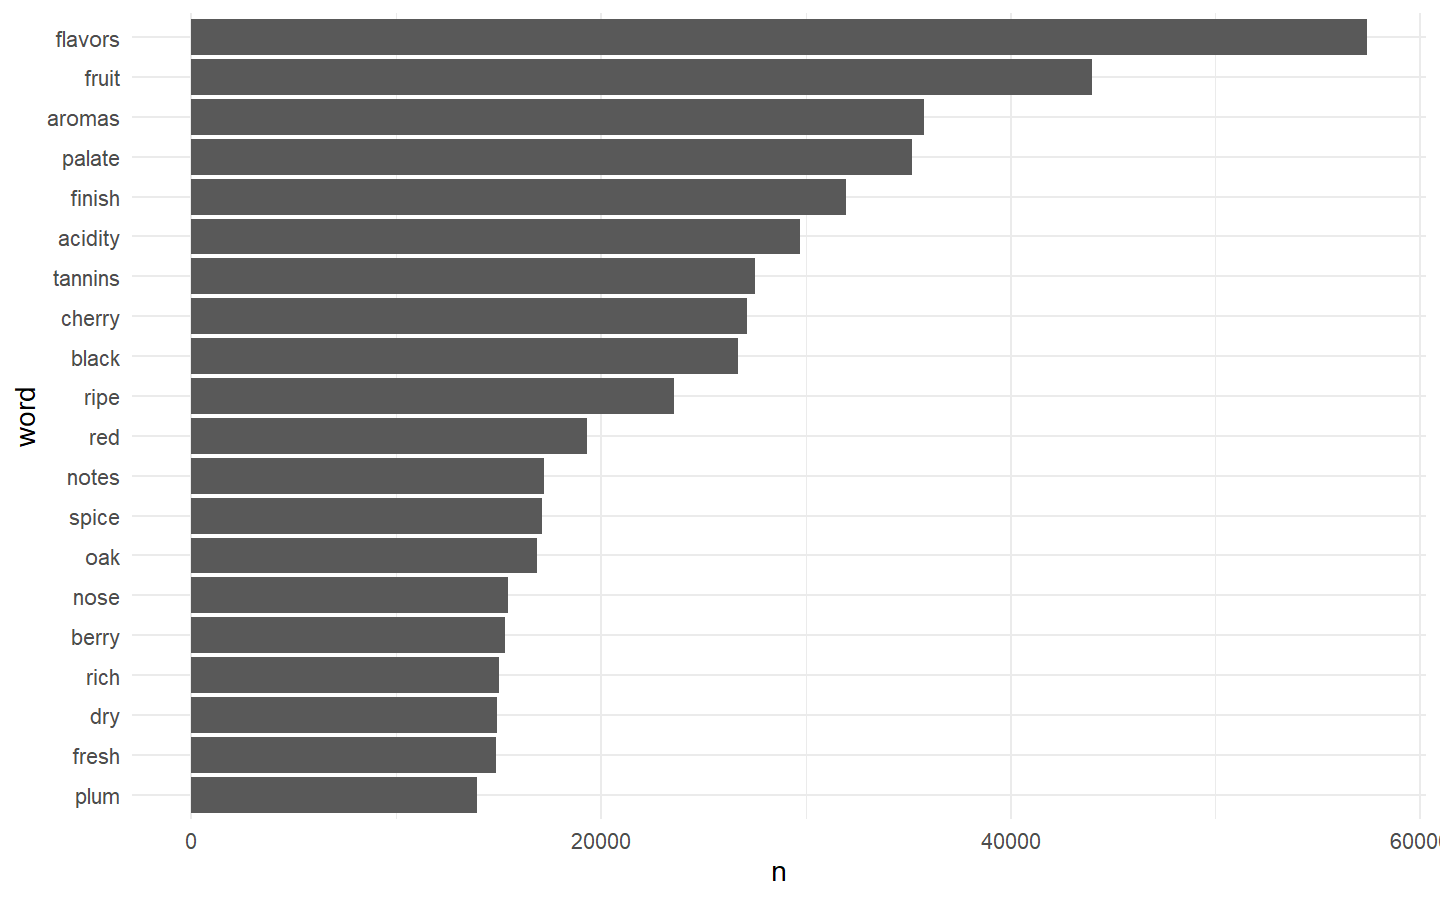
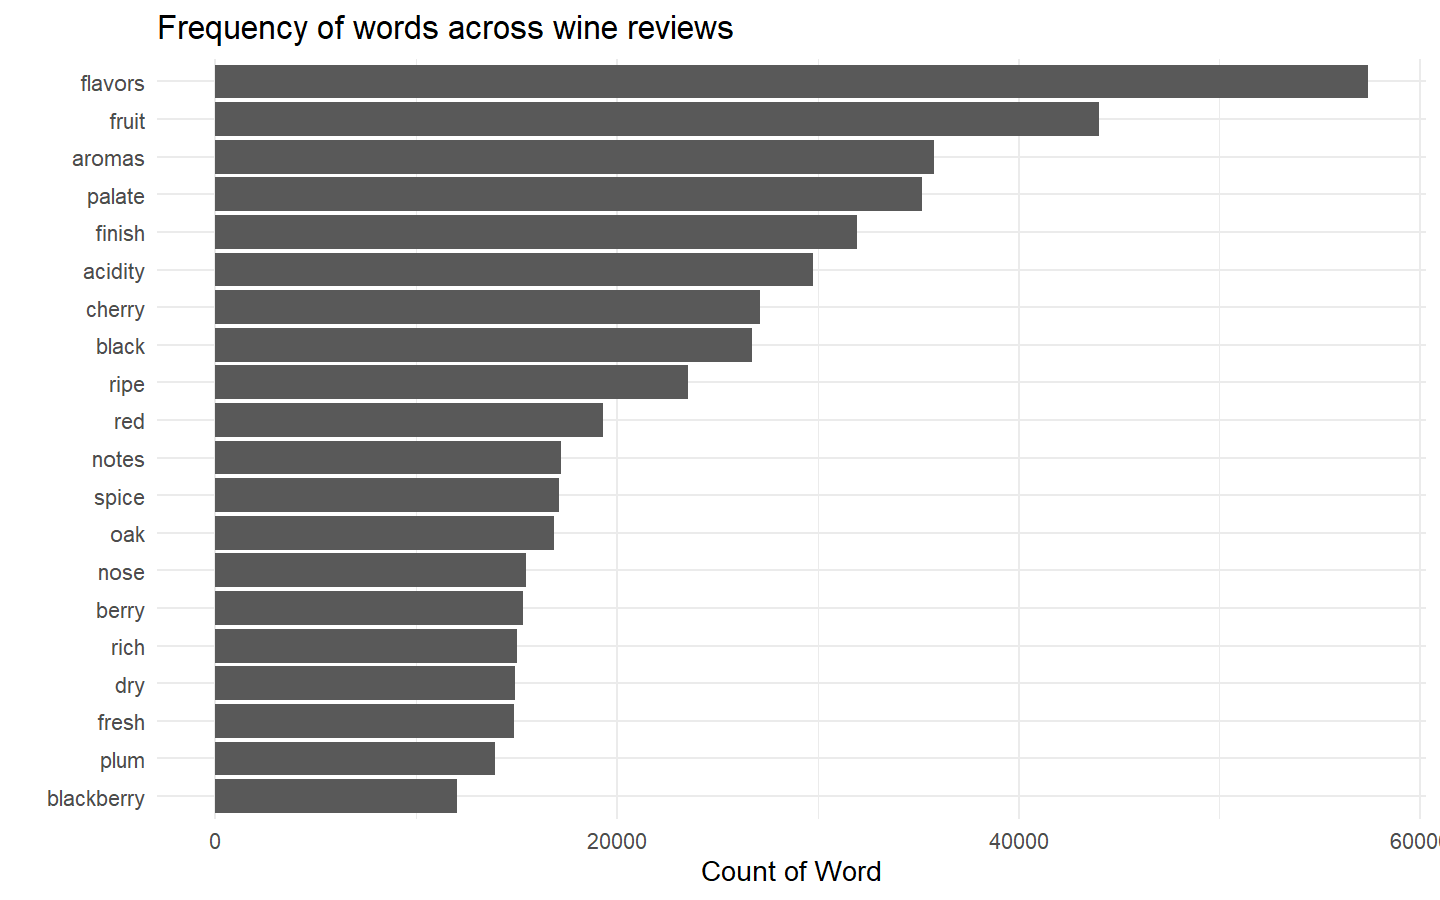
added table of contents & thoughts

diff --git a/markdown/20190528_wine_ratings/README.md b/markdown/20190528_wine_ratings/README.md
@@ -6,6 +6,13 @@ to understand it. All of the code & data is open source, but I hope you
 can take the themes or examples out of this and use it within the
 business.
 
+## Table of Contents
+
+  - [Set Up](#set-up)
+      - [Packages for Part One](#packages-for-part-one)
+      - [Packages for Part Two](#packages-for-part-two)
+  - [Engagements VOC](#engagements-voc)
+
 ![](./imgs/sponge-bob.jpg)
 
 # Set Up
@@ -43,7 +50,7 @@ library(doParallel)# parallel processing
 ## Data Pull
 
 We are going to pull in a data set from a repository on `Github` using
-`readr`’s function `read_csv`.
+`readr`’s function `read_csv()`.
 
 ``` r
 wine_ratings <- read_csv(
@@ -71,6 +78,10 @@ wine_ratings <- read_csv(
     ##   winery = col_character()
     ## )
 
+**Note**: Importing with `read_csv()` comes with a message(you’ll see
+this alot) and it basically is telling us that it pulled in our data set
+and what our function interpreted the data types as.
+
 ## Data Cleaning
 
   - See in the data imported correctly and/or see some of the top rows
@@ -78,7 +89,7 @@ wine_ratings <- read_csv(
 <!-- end list -->
 
 ``` r
-head(wine_ratings) # check top 5 observations
+head(wine_ratings) # check top 6 observations
 ```
 
     ## # A tibble: 6 x 14
@@ -94,7 +105,7 @@ head(wine_ratings) # check top 5 observations
     ## #   taster_twitter_handle <chr>, title <chr>, variety <chr>, winery <chr>
 
 ``` r
-tail(wine_ratings) # check bottom 5 observations
+tail(wine_ratings) # check bottom 6 observations
 ```
 
     ## # A tibble: 6 x 14
@@ -1321,6 +1332,12 @@ year
 
 </table>
 
+  - One of my favorite plots is the coefficient plot, it is a nice way
+    to see the influence of each one of our model’s inputs on the
+    prediction(wine-rating).
+
+<!-- end list -->
+
 ``` r
 # check coeff
 lm_mod %>% 
@@ -1369,11 +1386,35 @@ lm_mod %>%
 
 # Text mining
 
+One column that we haven’t really interacted with is the `description`
+column. It is a free text column that describes the wine from the wine
+reviewer’s perspective. How can we use the words within that description
+to help our prediction?
+
+**Goal**: Use the description column as an input for our model. We are
+going to be using a few different packages to accomplish our above
+goal(`tidytext` for breaking down our description column, `glmnet` for
+penalized regression,`Matrix` because `glmnet` requires a sparse matrix
+as an input & `doparallel` for parallel processing).
+
   - tidy text data
   - most used words
   - which words are good
   - put into matrix form for modeling with glmnet
   - …
+
+**Tidy Text a code break-down**: The tidytext package is amazing if you
+are going to be doing anything from text mining & sentiment scoring to
+topic modeling.
+
+  - tidy text data
+      - we are going to create and object `wine_words_df` and assign
+        `<-` our dataframe `wine_df` and **then** `%>%`
+      - unnest our description column(1-row per word) `unnest_tokens()`
+        and **then** `%>%`
+      - we want to remove all stop words(is, the, a…) with `anti_join()`
+        and **then** `%>%`
+      - remove some additional words with `filter()`
 
 <!-- end list -->
 
@@ -1382,14 +1423,14 @@ lm_mod %>%
 wine_words_df <- wine_df %>%
   unnest_tokens(word, description) %>%
   anti_join(stop_words, by = "word") %>%
-  filter(!word %in% c("wine", "drink"),
+  filter(!word %in% c("wine", "drink", "tannins"),
          str_detect(word, "[a-z]"))
 
 # check df 
 wine_words_df
 ```
 
-    ## # A tibble: 2,506,319 x 15
+    ## # A tibble: 2,478,789 x 15
     ##    country designation points price province region_1 region_2 taster_name
     ##    <chr>   <chr>        <dbl> <dbl> <chr>    <chr>    <chr>    <chr>      
     ##  1 Portug~ Avidagos        87    15 Douro    <NA>     <NA>     Roger Voss 
@@ -1402,11 +1443,16 @@ wine_words_df
     ##  8 Portug~ Avidagos        87    15 Douro    <NA>     <NA>     Roger Voss 
     ##  9 Portug~ Avidagos        87    15 Douro    <NA>     <NA>     Roger Voss 
     ## 10 Portug~ Avidagos        87    15 Douro    <NA>     <NA>     Roger Voss 
-    ## # ... with 2,506,309 more rows, and 7 more variables:
+    ## # ... with 2,478,779 more rows, and 7 more variables:
     ## #   taster_twitter_handle <chr>, title <chr>, year <int>, variety <chr>,
     ## #   winery <chr>, wine_id <int>, word <chr>
 
-check top words
+  - most used words
+      - We are going to check the most frequent words. The cool thing to
+        look at from the plot is the number of descriptors for tast
+        being used.
+
+<!-- end list -->
 
 ``` r
 wine_words_df %>%
@@ -1416,7 +1462,12 @@ wine_words_df %>%
   ggplot(aes(word, n)) +
   geom_col() +
   theme_minimal() + 
-  coord_flip()
+  coord_flip() + 
+  labs(
+    title = "Frequency of words across wine reviews",
+    x =  "",
+    y = "Count of Word"
+  )
 ```
 
 <img src="README_files/figure-gfm/unnamed-chunk-10-1.png" style="display: block; margin: auto;" />
